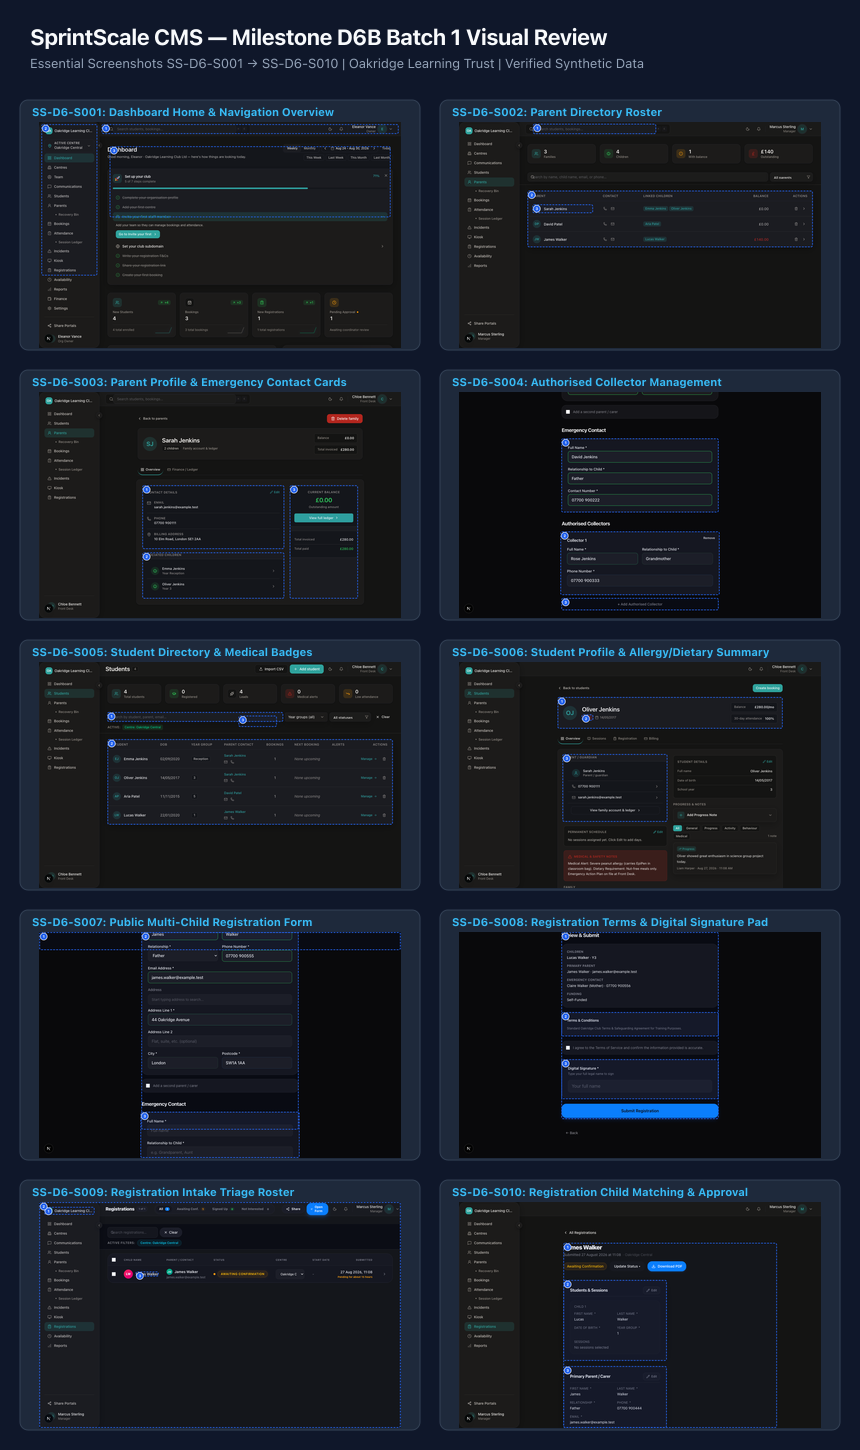
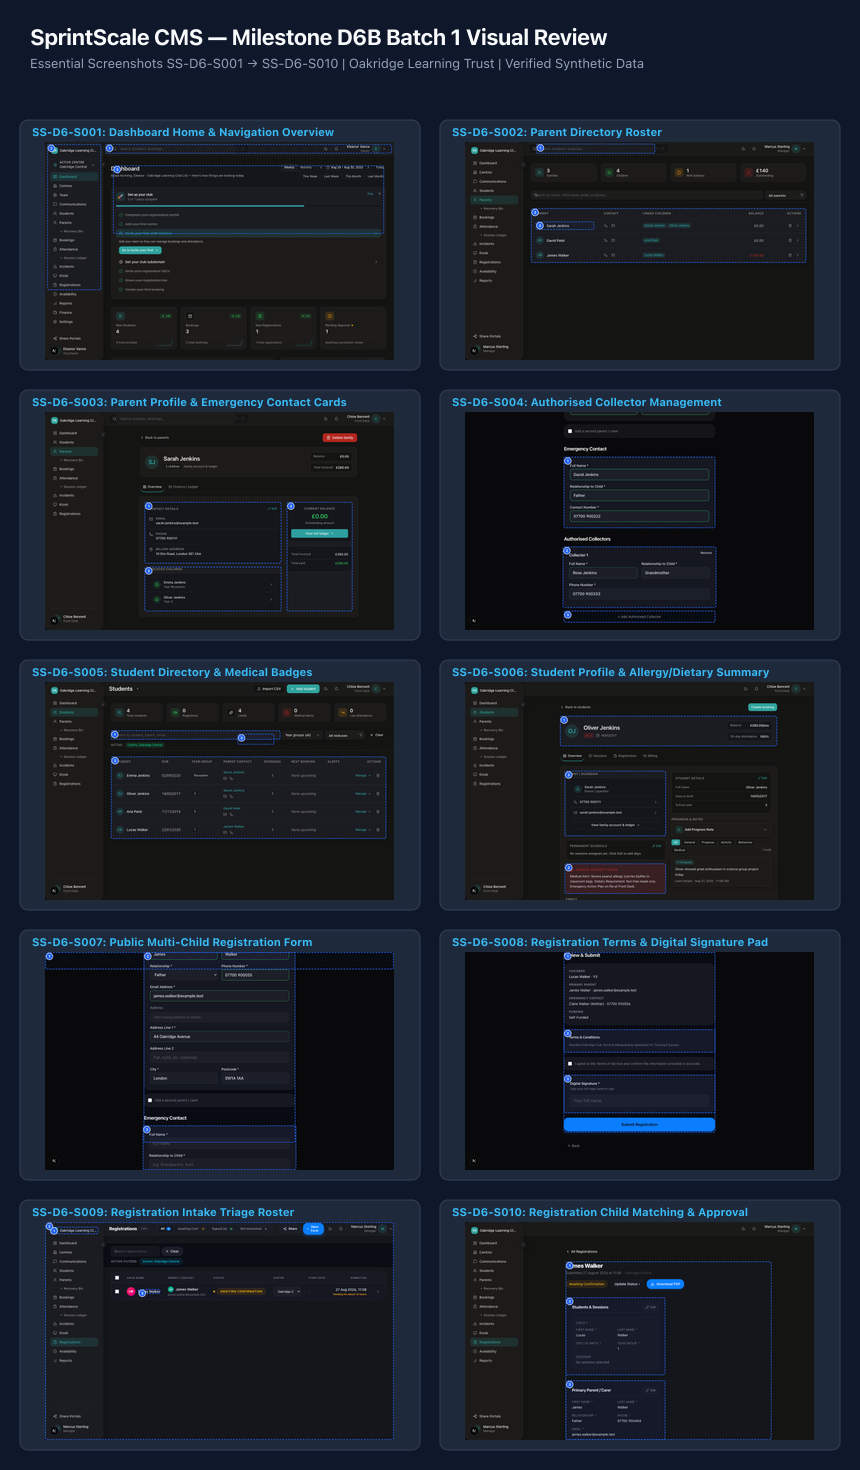
fix(training-d6b): align S006 medical safety annotation

diff --git a/src/scripts/capture-batch-1.ts b/src/scripts/capture-batch-1.ts
@@ -295,9 +295,9 @@ export async function captureBatch1() {
     const s006Annotated = path.join(OUT_ANNOTATED, 'SS-D6-S006.png');
     await pStaff.screenshot({ path: s006Source });
 
-    const pupilHeader6 = await safeBox(pStaff, 'div:has(> h1:has-text("Oliver Jenkins")), main div.p-5:has(h1)', { x: 280, y: 90, width: 1120, height: 110 });
-    const allergyCard6 = await safeBox(pStaff, 'div.bg-danger-soft, div:has(> div > p:has-text("Medical & safety notes"))', { x: 280, y: 530, width: 540, height: 120 });
-    const parentCard6 = await safeBox(pStaff, 'div:has(> p:has-text("Parent / guardian"))', { x: 280, y: 250, width: 540, height: 260 });
+    const pupilHeader6 = await safeBox(pStaff, 'div.p-5:has(h1:has-text("Oliver Jenkins")), div:has(> div > h1:has-text("Oliver Jenkins"))', { x: 393, y: 141, width: 894, height: 123 });
+    const allergyCard6 = await safeBox(pStaff, 'div.rounded-md:has(p:has-text("Medical & safety notes")), div.p-4.bg-danger-soft', { x: 412, y: 750, width: 416, height: 123 });
+    const parentCard6 = await safeBox(pStaff, 'div:has(> p:has-text("Parent / guardian"))', { x: 412, y: 368, width: 416, height: 267 });
 
     await annotateImage(s006Source, s006Annotated, [
       { x: pupilHeader6.x, y: pupilHeader6.y, width: pupilHeader6.width, height: pupilHeader6.height, badge: 1 },
